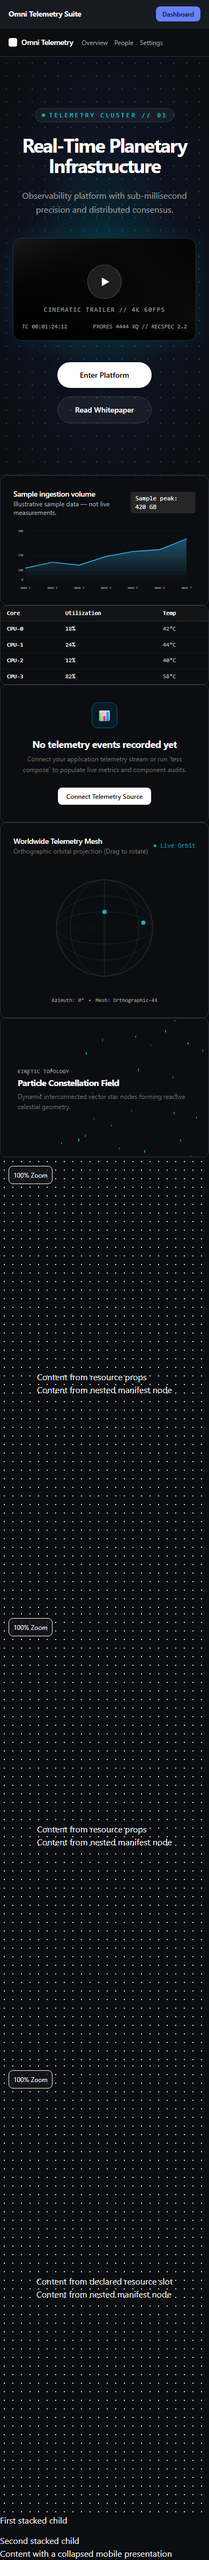
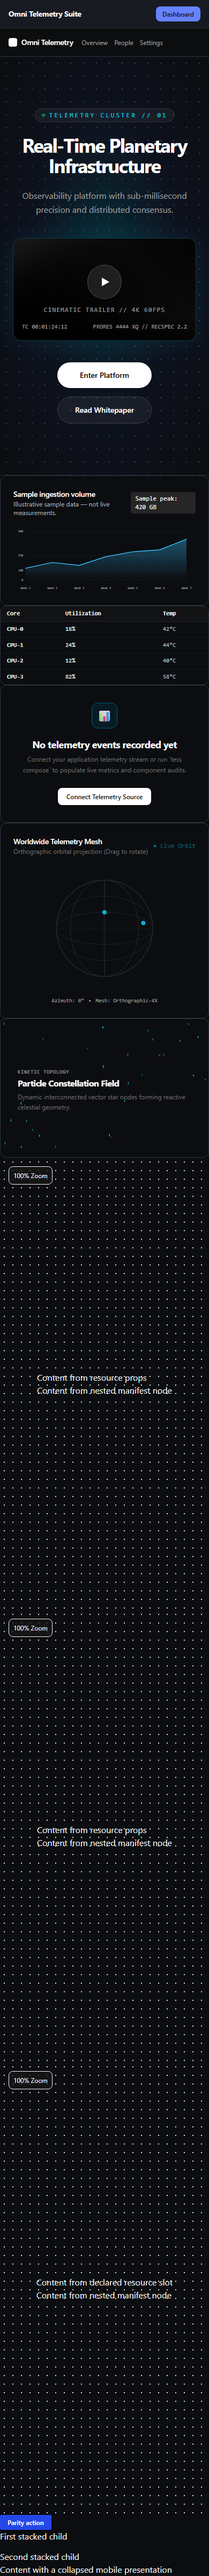
docs(audit): record exported attribute parity defect

diff --git a/quality/STEP_07_EVIDENCE.md b/quality/STEP_07_EVIDENCE.md
@@ -1,7 +1,7 @@
 # Step 07 — Renderer and export parity evidence
 
-Status: in progress on 6baf9d1e93b2a6e11cac075b21d879cfa2c863ae. These are local regression results; no public Site or review
-deployment has been updated. The six new runtime-audit findings remain open until
+Status: in progress on the current consolidation branch. These are local regression results; no public Site or review
+deployment has been updated. The seven new runtime-audit findings remain open until
 the deployed review build is re-audited.
 
 ## Defects reproduced and corrected locally
@@ -14,6 +14,7 @@ the deployed review build is re-audited.
 | AUD-074 | Workbench allowed an undeclared variant to reach a component, which silently selected its default style; export also accepted it. | Workbench shows a recoverable diagnostic without rendering that component; export rejects it and lists the declared variants. | `packages/renderer/src/__tests__/gold-registry.test.tsx`, `packages/exporter/src/__tests__/standalone-export-fidelity.test.ts`, `tests/e2e/unsupported-resource-variant-regression.spec.ts`; [before](../audit/evidence/step-07/before/unsupported-variant-fell-through.png), [after](../audit/evidence/step-07/after/unsupported-variant-diagnostic.png). |
 | AUD-075 | Workbench ignored a resource's declared `slots.children` when the node also had nested manifest children. | Canvas and Preview show both slot content and nested nodes, with resource child-prop eligibility enforced. | `packages/renderer/src/__tests__/gold-registry.test.tsx`, `tests/e2e/renderer-children-parity.spec.ts`; [before](../audit/evidence/step-07/before/resource-slot-child-lost.png), [canvas](../audit/evidence/step-07/after/resource-slot-and-nested-children.png), [Preview](../audit/evidence/step-07/after/preview-modal-slot-children.png). |
 | AUD-076 | Standalone export ignored node-level mobile `omit`, `stack`, and `collapse` strategies. | Generated React applies the strategies at 390 px; Workbench and exported browser use the same shared fixture. | `packages/testing/src/renderer-parity-fixture.ts`, `packages/renderer/src/__tests__/renderer-parity.test.tsx`, `packages/exporter/src/__tests__/standalone-export-fidelity.test.ts`, `tests/e2e/renderer-children-parity.spec.ts`; [before](../audit/evidence/step-07/before/export-responsive-override-visible.png), [export after](../audit/evidence/step-07/after/standalone-export-responsive-390.png), [Workbench after](../audit/evidence/step-07/after/workbench-responsive-390.png). |
+| AUD-077 | Standalone export filtered standard `data-*` and `aria-*` resource props that Workbench preserves. | Exported resources retain these standard attributes while other undeclared props remain filtered. | Shared Button fixture and clean standalone install/build/browser regression in `packages/exporter/src/__tests__/standalone-export-fidelity.test.ts`; [before](../audit/evidence/step-07/before/export-data-attribute-dropped.png), [after](../audit/evidence/step-07/after/export-data-attribute-preserved.png). |
 
 The before captures were gathered by running the prior implementations against a
 local browser session. Unknown Preview IDs showed Button controls. The first
@@ -26,15 +27,16 @@ These failures were silent: no console errors or failed network requests.
 - `pnpm build` passed after regenerating catalogue and runtime resource artifacts. The build retains existing large-chunk warnings; they are not introduced by this parity fix.
 - `pnpm typecheck` passed across the workspace.
 - `pnpm lint` passed with zero errors and 51 existing warnings.
-- Focused Vitest: 69 passed across renderer registry, renderer behavior, the shared desktop/mobile parity fixture, all 324 resource variant declarations, and exporter fidelity. The standalone project is installed in a clean temporary directory, built, started with Vite preview, and opened in Chromium. The final run completed without worker errors.
-- Focused Playwright: 4 passed across PreviewApp, shared Workbench canvas/Preview/mobile rendering, declared-slot child rendering, and Workbench invalid-variant handling. The standalone browser run also recorded zero console errors and failed requests.
-- `pnpm typecheck` passed across the workspace. `pnpm lint` passed with zero errors and 51 existing warnings. `pnpm build` passed, including the Sites artifact build.
-- `pnpm audit:all` passed on the responsive renderer fix: all 16 release criteria, 717-page production build, bundle budgets, catalogue licence/provenance, and security/secret checks.
-- `audit/runtime-audit.json` now contains 76 findings: 16 High and 60 Medium. The six new findings are `fixed-awaiting-deployed-verification`.
+- Renderer/exporter Vitest suites passed 81/81 across seven files, including all 324 resource variant declarations and the clean standalone install/build/browser test. The exported app ran in Chromium with zero console errors and failed requests.
+- Focused Workbench/Preview Playwright checks passed 3/3 for shared canvas/Preview/mobile parity, declared-slot content, and unsupported variants. The earlier PreviewApp regression also passed.
+- `pnpm install --frozen-lockfile` had already passed on this checkout; `pnpm typecheck` passed across the workspace. `pnpm lint` passed with zero errors and 51 existing warnings.
+- `pnpm audit:all` passed on the current source: all 16 behavioral release criteria, 717-page production build, bundle budgets, catalogue licence/provenance, and security/secret checks. The build emits existing large-chunk warnings; bundle budgets pass.
+- AUD-077 regression proof: the clean standalone install/build/browser assertion passed after the exporter fix; before the fix, the same test failed because the data attribute locator was absent. It also verified zero console errors and failed requests. Renderer parity unit tests passed 2/2; Workbench parity browser checks passed 3/3.
+- `audit/runtime-audit.json` now contains 77 findings: 16 High and 61 Medium. The seven new findings are `fixed-awaiting-deployed-verification`.
 
 ## Remaining Step 07 work
 
-This evidence covers the six failures found while tracing the renderer contract.
+This evidence covers the seven failures found while tracing the renderer contract.
 It does not yet certify parity for every manifest/resource combination, every
 variant/slot/prop edge, or every Preview, Workbench, and export rendering path.
 Do not mark Step 07 complete until a broader shared-fixture parity matrix verifies

diff --git a/audit/RUNTIME_AUDIT.md b/audit/RUNTIME_AUDIT.md
@@ -7,7 +7,7 @@ Machine-readable findings and their current status are in
 [`runtime-audit.json`](./runtime-audit.json). All fixes await verification in a
 published review version during the public-RC phase.
 
-**Current disposition:** 76 findings (16 High, 60 Medium). The Step 06 resource fixes and six Step 07 renderer/export fixes have local regression evidence. All findings remain `fixed-awaiting-deployed-verification` until the public review Site is updated and re-audited in the public-RC phase. CI for the current head is pending. An earlier PR run exposed a race in the Gold test's loading-state check; the test now waits for the exact rendered resource node and variant.
+**Current disposition:** 77 findings (16 High, 61 Medium). The Step 06 resource fixes and seven Step 07 renderer/export fixes have local regression evidence. All findings remain `fixed-awaiting-deployed-verification` until the public review Site is updated and re-audited in the public-RC phase. CI for the current head is pending. An earlier PR run exposed a race in the Gold test's loading-state check; the test now waits for the exact rendered resource node and variant.
 
 At the Step 06 checkpoint, `pnpm test:e2e` passed: 73 of 124 desktop/mobile browser tests passed, 51 tests were explicitly skipped by project scope, and all 23 Sites Worker tests passed. It included the expanded state and action regressions. The 11-case state matrix, exact-resource readiness check, dialog modal regression, Prompt Composer action regression, and 40 × 3 Axe matrix passed. The catalogue report covered 324 resources and 972 variants with zero findings, failed requests or cancellations; the Gold report covered 40 resources / 120 variants with zero findings. Existing state fixtures cover six Gold data resources; the expanded matrix covers array-driven resources at empty and 30–40 item counts, disabled Button/Input/Select, named loading/error states, long text, and fixed-slot partial data. See [`e2e-suite-final.json`](evidence/step-06/results/e2e-suite-final.json) and the individual browser reports alongside it.
 
@@ -134,6 +134,14 @@ At the Step 06 checkpoint, `pnpm test:e2e` passed: 73 of 124 desktop/mobile brow
 - Remediation: emit a `data-responsive-strategy` for supported strategies and apply shared mobile container-query rules for omit, stack, and collapse. Deployed verification remains outstanding. Fix commit: `6baf9d1e93b2a6e11cac075b21d879cfa2c863ae`.
 
 ## MEDIUM
+
+### AUD-077 — Standalone export dropped standard data and accessibility attributes
+
+- Evidence: the [before capture](evidence/step-07/before/export-data-attribute-dropped.png) and failing clean-export browser assertion showed the shared Button fixture lacked its `data-tracking-id` attribute. The [after capture](evidence/step-07/after/export-data-attribute-preserved.png) shows the generated standalone resource; its browser assertion verifies the attribute is present. The passing clean install/build/browser run recorded zero console errors or failed requests.
+- Reproduction: export the shared renderer parity fixture, clean-install its generated dependencies, build and preview it, then query `[data-tracking-id="parity-action"]`. Before the fix the locator count was zero; Workbench retained the same attribute.
+- Root cause: exporter prop filtering allowed only names explicitly declared by the resource, dropping standard `data-*` and `aria-*` attributes that Workbench intentionally forwards.
+- Affected code: `packages/exporter/src/source-tree.ts`, `packages/testing/src/renderer-parity-fixture.ts`, and renderer/exporter/Workbench parity tests.
+- Remediation: preserve `data-*` and `aria-*` props while continuing to filter undeclared ordinary props. Deployed verification remains outstanding. Fix commit: `1f92c1ed2d3e7e54f129f0d844faf2ef22e2a956`.
 
 ### AUD-068 — Form controls announced a false generic action when clicked
 
